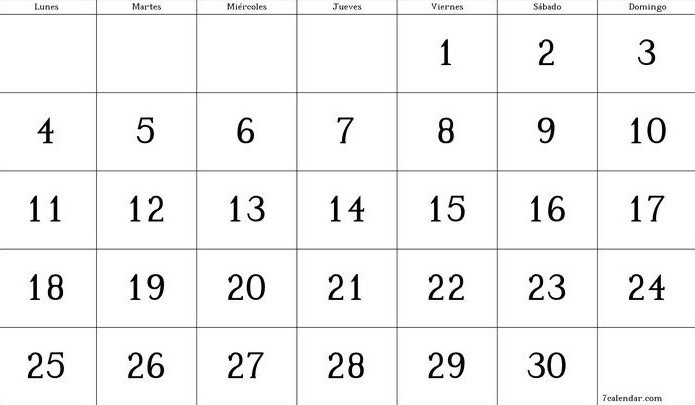
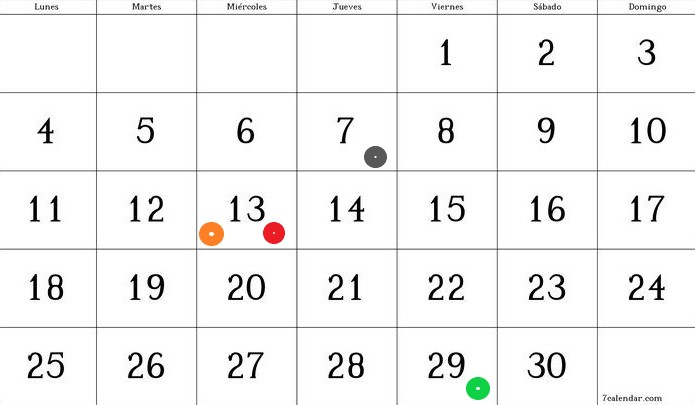
HOME - Agregado de imagen ToDo. Señaladores en calendario de fechas importantes. Agregado de fecha a cada tarea/entrega

diff --git a/Styles/styles.css b/Styles/styles.css
@@ -775,7 +775,7 @@
 /* HOME */
 @media screen and (min-width: 1025px) {
     .bodyHome {
-        background-color: #f5f5f5;
+        background-color: #dde0e4;
         display: flex;
         justify-content: flex-start;
         height: 100vh;
@@ -836,6 +836,7 @@
         background-repeat: no-repeat;
         padding-left: 2em;
     }
+   
 
     .headerHome nav li:last-child {
         background-image: url('../Imagenes/GroupIcon.png');
@@ -843,6 +844,7 @@
         background-position: left;
         background-repeat: no-repeat;
         padding-left: 2em;
+        
     }
 
     .dashboard {
@@ -860,8 +862,44 @@
         justify-content: center;
     }
 
+    .todo {
+        display: flex;
+        justify-content: center;
+        align-items: center;
+        position: relative;
+        width: 100%;
+        height: auto; 
+        overflow: hidden;
+        background-color: #f9f9f9;
+        border-radius: .5rem;
+        box-shadow: 0 4px 8px rgba(0, 0, 0, 0.1);
+    }
+    
+    .anotadorImg {
+        max-width: 100%; 
+        max-height: 100%; 
+        width: auto; 
+        height: 100%; 
+        object-fit: contain; 
+        border-radius: .5rem;
+        box-shadow: 0 4px 8px rgba(0, 0, 0, 0.1);
+    }
+    
+    .tituloToDo{
+        color: #333;
+    }
+      
+      .anotacionesToDo {
+        position: absolute;
+        top: 50%;
+        left: 50%;
+        transform: translate(-50%, -50%);
+        text-align: center;
+        width: 80%;
+        color: white;
+      }
+      
     .calendario,
-    .todo,
     .materias,
     .grupos,
     .entregas {
@@ -873,6 +911,7 @@
     }
 
     .calendario {
+        position: relative;
         grid-area: calendario;
         display: flex;
         justify-content: space-around;
@@ -894,18 +933,22 @@
 
     .todo {
         grid-area: todo;
+       
     }
 
     
     .tareas {
-        background-color: #f4f5f7; 
+        background-color: transparent; 
         border-radius: 0.5em;
         padding: 1em 1.25em;
         box-shadow: 0 0.25em 0.5em rgba(0, 0, 0, 0.1);
         transition: transform 0.2s, box-shadow 0.2s;
-        margin: 2% auto;
+        /*margin: 0.5% auto;*/
+        margin:0.5% 0% 0.5% 22% ;
         cursor: pointer;
-        max-width: 90%; 
+        max-width: 65%; 
+        font-size: 2px;
+
     }
     
     .tareas:hover {
@@ -923,12 +966,12 @@
     }
 
     .tareasRealizadas {
-        background-color: rgba(244, 245, 247, 0.6);
+        
         border-radius: 0.5em;
         padding: 1em 1.25em;
         box-shadow: 0 0.25em 0.5em rgba(0, 0, 0, 0.05);
         transition: transform 0.2s, box-shadow 0.2s;
-        margin: 2% auto;
+        margin: 0.5% 0% 0.5% 18% ;
         cursor: default; 
         max-width: 90%;
     }

diff --git a/home.html b/home.html
@@ -42,12 +42,17 @@
                 </div>
 
                 <div class="todo">
-                    <h4>To Do</h4>
-                    <div class="tareas">
-                        <span for="tarea1">Hacer wireframe(vei)</span>
-                    </div>
-                    <div class="tareasRealizadas">
-                        <span for="tarea2">Hacer tarea(inglés)</span>
+                    <img src="Imagenes/imgToDo.png" alt="anotador" class="anotadorImg">
+                    <div class="anotacionesToDo">
+                        <h4 class="tituloToDo">To Do</h4>
+                        <div>
+                        <div class="tareas">
+                            <span for="tarea1">Hacer wireframe(vei)/13-11</span>
+                        </div>
+                        <div class="tareasRealizadas">
+                            <span for="tarea2">Hacer tarea(inglés)/07-11</span>
+                        </div>
+                        </div>
                     </div>
                 </div>
 
@@ -68,8 +73,8 @@
                 <div class="entregas">
                     <h4>Entregas de esta semana</h4>
                     <ul>
-                        <li>Entrega wireframe</li>
-                        <li>Entrega Tp final vei</li>
+                        <li>Entrega wireframe / 13-11</li>
+                        <li>Entrega Tp final vei / 29-11</li>
                     </ul>
                 </div>
 
